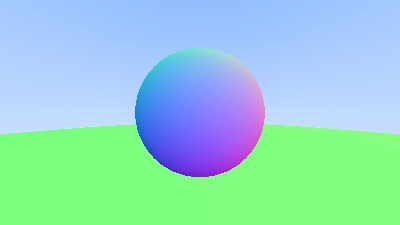
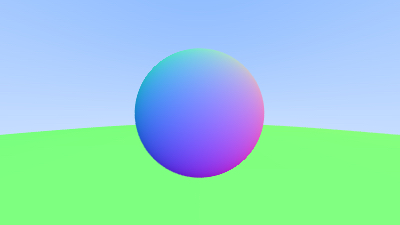
Implemented Anti-Aliasing

diff --git a/src/color.rs b/src/color.rs
@@ -1,28 +1,64 @@
 use super::vec3::Vec3;
+use std::cmp::PartialOrd;
 use std::convert::From;
 use std::error::Error;
 use std::io::Write;
+use std::ops;
+
+fn clamp<T: PartialOrd>(x: T, min: T, max: T) -> T {
+    if x < min {
+        return min;
+    }
+    if x > max {
+        return max;
+    }
+    x
+}
 
 #[derive(Debug)]
 pub struct Color(pub Vec3);
 
 impl Color {
-    pub fn write(&self, mut writer: impl Write) -> Result<(), Box<dyn Error>> {
-        let ir = (255.999 * self.0.x()) as u8;
-        let ig = (255.999 * self.0.y()) as u8;
-        let ib = (255.999 * self.0.z()) as u8;
+    pub fn write_sampled(
+        &self,
+        mut writer: impl Write,
+        samples: u32,
+    ) -> Result<(), Box<dyn Error>> {
+        let scale = 1. / samples as f64;
 
-        writeln!(writer, "{} {} {}", ir, ig, ib)?;
+        let r = self.as_vec3().x() * scale;
+        let g = self.as_vec3().y() * scale;
+        let b = self.as_vec3().z() * scale;
+
+        let clamped_r = (256. * clamp(r, 0., 0.999)) as u8;
+        let clamped_g = (256. * clamp(g, 0., 0.999)) as u8;
+        let clamped_b = (256. * clamp(b, 0., 0.999)) as u8;
+
+        writeln!(writer, "{} {} {}", clamped_r, clamped_g, clamped_b)?;
         Ok(())
     }
 
     pub fn new(r: f64, g: f64, b: f64) -> Self {
         Color((r, g, b).into())
     }
+
+    pub fn as_vec3(&self) -> &Vec3 {
+        &self.0
+    }
+
+    pub fn as_mut_vec3(&mut self) -> &mut Vec3 {
+        &mut self.0
+    }
 }
 
 impl From<Vec3> for Color {
     fn from(vec3: Vec3) -> Self {
         Self(vec3)
+    }
+}
+
+impl ops::AddAssign<Color> for Color {
+    fn add_assign(&mut self, other: Color) {
+        self.as_mut_vec3().add_assign(other.as_vec3());
     }
 }

diff --git a/src/main.rs b/src/main.rs
@@ -1,6 +1,8 @@
 use camera::Camera;
+use color::Color;
 use hit::Hittable;
 use point3::Point3;
+use rnd::pseudo_rnd;
 use sphere::Sphere;
 use std::error::Error;
 use std::io;
@@ -11,6 +13,7 @@ mod color;
 mod hit;
 mod point3;
 mod ray;
+mod rnd;
 mod sphere;
 mod vec3;
 
@@ -35,15 +38,21 @@ fn main() -> Result<(), Box<dyn Error>> {
     writeln!(&stdout, "{} {}", image_width, image_height)?;
     writeln!(&stdout, "255")?;
 
+    // Antialiasing
+    let samples = 100;
+
     for j in (0..image_height).rev() {
-        write!(&stderr, "\rScanlines remaining: {}", j)?;
+        write!(&stderr, "\rScanlines remaining: {:0>3}", j)?;
         for i in 0..image_width {
-            let u = i as f64 / (image_width - 1) as f64;
-            let v = j as f64 / (image_height - 1) as f64;
-            let ray = camera.get_ray(u, v);
-            let pixel_color = world.ray_color(&ray);
-            // dbg!(&pixel_color);
-            pixel_color.write(&stdout)?;
+            let mut pixel_color = Color::new(0., 0., 0.);
+            for _ in 0..samples {
+                let u = (i as f64 + pseudo_rnd()) / (image_width - 1) as f64;
+                let v = (j as f64 + pseudo_rnd()) / (image_height - 1) as f64;
+                let ray = camera.get_ray(u, v);
+                pixel_color += world.ray_color(&ray);
+                // dbg!(&pixel_color);
+            }
+            pixel_color.write_sampled(&stdout, samples)?;
         }
     }
 

diff --git a/src/rnd.rs b/src/rnd.rs
@@ -1,0 +1,50 @@
+use std::time::{SystemTime, UNIX_EPOCH};
+
+const KX: u32 = 123456789;
+const KY: u32 = 362436069;
+const KZ: u32 = 521288629;
+const KW: u32 = 88675123;
+
+// pseude rnd generator taken from https://users.rust-lang.org/t/random-number-without-using-the-external-crate/17260/10
+
+struct Rand {
+    x: u32,
+    y: u32,
+    z: u32,
+    w: u32,
+}
+
+impl Rand {
+    pub fn new(seed: u32) -> Rand {
+        Rand {
+            x: KX ^ seed,
+            y: KY ^ seed,
+            z: KZ,
+            w: KW,
+        }
+    }
+
+    // Xorshift 128, taken from German Wikipedia
+    pub fn rand(&mut self) -> u32 {
+        let t = self.x ^ self.x.wrapping_shl(11);
+        self.x = self.y;
+        self.y = self.z;
+        self.z = self.w;
+        self.w ^= self.w.wrapping_shr(19) ^ t ^ t.wrapping_shr(8);
+        self.w
+    }
+
+    pub fn rand_range(&mut self, a: i32, b: i32) -> i32 {
+        let m = (b - a + 1) as u32;
+        a + (self.rand() % m) as i32
+    }
+}
+
+pub fn pseudo_rnd() -> f64 {
+    let micros = SystemTime::now()
+        .duration_since(UNIX_EPOCH)
+        .unwrap()
+        .subsec_micros();
+    let mut rng = Rand::new(micros);
+    rng.rand_range(0, 1000) as f64 / 1000.
+}

diff --git a/src/vec3.rs b/src/vec3.rs
@@ -98,6 +98,14 @@ impl ops::AddAssign<Vec3> for Vec3 {
     }
 }
 
+impl ops::AddAssign<&Vec3> for Vec3 {
+    fn add_assign(&mut self, other: &Vec3) {
+        self.e[0] += other.e[0];
+        self.e[1] += other.e[1];
+        self.e[2] += other.e[2];
+    }
+}
+
 impl ops::Add<&Vec3> for &Vec3 {
     type Output = Vec3;
 
